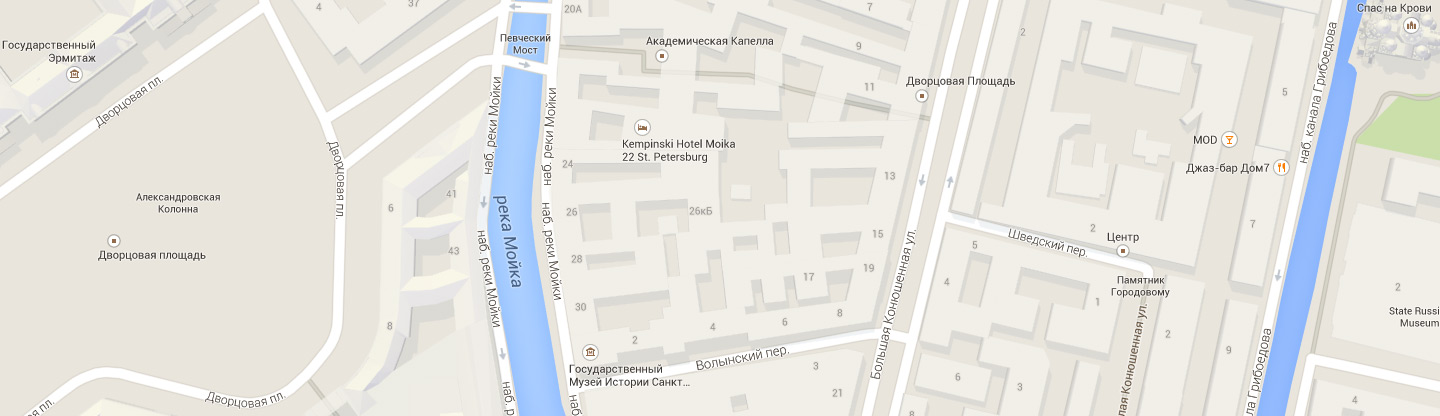
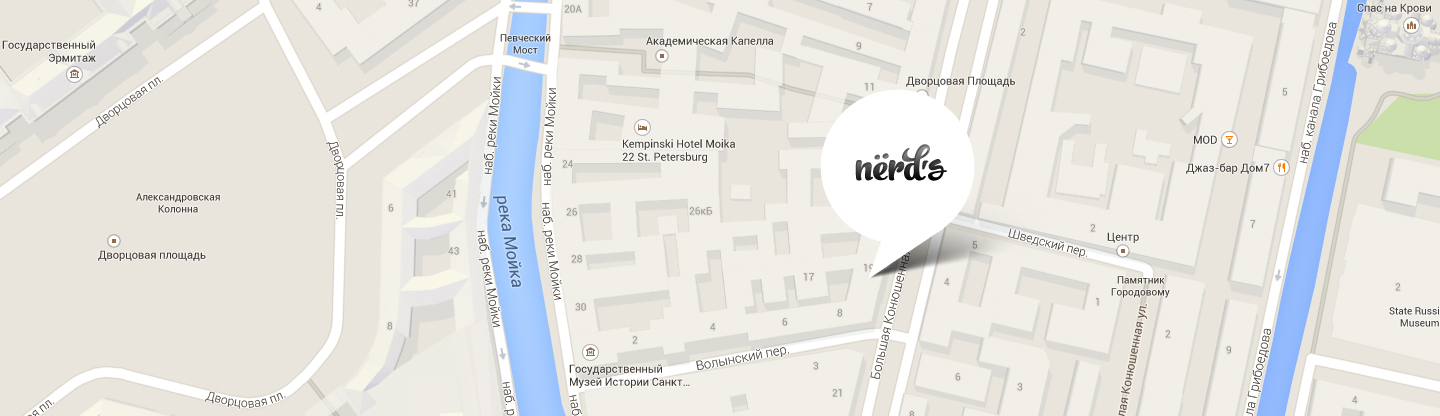
дополнения

Changed region(s): [[0.5625, 0.2188, 0.6875, 0.6562]]

diff --git a/css/style.css b/css/style.css
@@ -216,18 +216,21 @@
     background-image: url("../img/slide1.png");
     background-repeat: no-repeat;
     background-position: 93% 18px;
+    animation: arrival 0.4s;
   }
 
   .slider-item:nth-child(2) {
     background-image: url("../img/slide2.png");
     background-repeat: no-repeat;
     background-position: 100% 0;
+    animation: arrival 0.4s;
   }
 
   .slider-item:nth-child(3) {
     background-image: url("../img/slide3.png");
     background-repeat: no-repeat;
     background-position: 100% 20px;
+    animation: arrival 0.4s;
   }
 
   #product-1:checked ~ .slider-list .slider-item:nth-child(1) {
@@ -579,37 +582,49 @@
 
   footer {
     margin-bottom: 70px;
+    position: relative;
+  }
+
+  .footer-map {
+    height: 416px;
+    background-image: url("../img/map.jpg");
+    background-color: #ffffff;
+    background-position: center;
+    background-repeat: no-repeat;
+  }
+
+  .footer-map-widget {
+    z-index: 10;
+    border: 1px;
+    width: 100%;
+    min-height: 416px;
+  }
+
+  .footer-contacts-container {
+    position: relative;
+    max-width: 1440px;
+    height: 0;
+    margin: 0 auto;
+    margin-bottom: 60px;
   }
 
   .footer-contacts {
-    margin: 0 auto;
-    margin-bottom: 70px;
-  }
-
-  .map {
-    position: relative;
-    width: 100%;
-    max-width: 1440px;
-    margin: 0 auto;
-  }
-
-  .contacts {
     position: absolute;
-    top: 55px;
+    bottom: 53px;
     left: 140px;
-    z-index: 2;
+    z-index: 12;
     width: 220px;
     height: 200px;
     padding: 55px 50px;
     background-color: #ffffff;
   } 
   
-  .contacts h2,
-  .contacts p {
+  .footer-contacts h2,
+  .footer-contacts p {
     margin: 0;
   }
 
-  .contacts h3 {
+  .footer-contacts h3 {
     margin-top: -5px;
     margin-bottom: 22px;
     font-family: "Roboto";
@@ -620,7 +635,7 @@
     color: #000000;
   }
 
-  .contacts p {
+  .footer-contacts p {
     margin-bottom: 18px;
     font-family: "Roboto";
     font-size: 16px;
@@ -629,7 +644,7 @@
     color: #666666;
   }
 
-  .contacts a {
+  .footer-contacts a {
     display: inline-block;
     vertical-align: top;
     width: 100%;
@@ -646,11 +661,11 @@
     border-radius: 2px;
   }
 
-  .contacts a:hover {
+  .footer-contacts a:hover {
     background-color: #e74246;
   }
 
-  .contacts a:active {
+  .footer-contacts a:active {
     padding-top: 13px;
     color: #e37376;
     background-color: #d7373b;
@@ -659,15 +674,19 @@
     box-sizing: border-box;
   }
 
+  /*
   .market {
     position: absolute;
     top: 89px;
-    left: 820px;
+    left: 50%;
+    z-index: 5;
     display: block;
     width: 231px;
     height: 190px;
-    margin-right: -331px;
-  }
+    margin-right: 231px;
+    background-image: url("../img/map-marker.png");
+  } 
+  */
 
   /** Контакты **/
 
@@ -721,7 +740,7 @@
     width: auto;
     font-family: "Roboto";
     font-size: 16px;
-    line-height: 18px;
+    line-height: 22px;
     font-weight: 400;
     color: #444444;
     text-align: start;
@@ -734,6 +753,11 @@
     font-weight: 700;
     color: #000000;
   }
+
+  .discount-to-friends {
+    margin-top: -6px;
+  }
+
   /** Стили страницы inner.html **/
   /** Шапка немного отличается **/
   
@@ -1254,24 +1278,6 @@
     opacity: 1;
   }
 
-  .macket-description svg {
-    z-index: 1;
-    display: block;
-    width: 360px;
-    margin: 0;
-    padding: 0;
-    border: none;
-  }
-
-  .description-sedona:hover path,
-  .description-pink:hover path,
-  .description-borodinski:hover path,
-  .description-mishka:hover path,
-  .description-aplus:hover path,
-  .description-kvast:hover path {
-    fill: #4D4D4D;
-  }
-
   .link,
   .link img {
     margin: 0;
@@ -1614,16 +1620,16 @@
 
   @-webkit-keyframes bounce {
     0% {
-      transform: translateX(2000px);
+      transform: translateY(2000px);
     }
     70% {
-      transform: translateX(-200px);
+      transform: translateY(-200px);
     }
     90% {
-      transform: translateX(50px);
+      transform: translateY(50px);
     }
     100% {
-      transform: translateX(0);
+      transform: translateY(0);
     }
   }
 
@@ -1663,6 +1669,15 @@
     }
     20%, 40%, 60%, 80% {
       transform: translateX(20px);
+    }
+  }
+
+  @keyframes arrival {
+    0% {
+      transform: translateX(2000px);
+    }
+    100% {
+      transform: translateX(0);
     }
   }
   </body>

diff --git a/inner.html b/inner.html
@@ -31,7 +31,7 @@
     </header>
 
     <main class="main-container container">
-      <form method="get" action="https://echo.htmlacademy.ru">
+      <form action="https://echo.htmlacademy.ru" method="post">
         <fieldset class="filter-item">
           <legend>Стоимость:</legend>
           <div class="range-filter">
@@ -110,7 +110,7 @@
             </div>
           </li>
           <li class="description-borodinski box">
-            <a class="link" href="#"><img src="img/borodinski.jpg" width="360" height="576" alt="borodinski-landing-page"></a>
+            <a class="link" href="#"><img src="img/borodinski.jpg" width="360" height="576" alt="barbershop-borodinski-landing-page"></a>
             <div class="sticker">
               <h3><a class="product-link" href="#">Barbershop</a></h3>
               <p>Сайт салона красоты. Для мужчин, да.</p>
@@ -126,7 +126,7 @@
             </div>
           </li>
           <li class="description-aplus box">
-            <a class="link" href="#"><img src="img/aplus.jpg" width="360" height="576" alt="aplus-landing-page"></a>
+            <a class="link" href="#"><img src="img/aplus.jpg" width="360" height="576" alt="a-plus-landing-page"></a>
             <div class="sticker">
               <h3><a class="product-link" href="#">A Plus</a></h3>
               <p>Лендинг курсов повышения квалификации</p>
@@ -143,27 +143,26 @@
           </li>
         </ul>
         <ul class="page-numbers">
-          <li class="page-number page-active"><a href="#">1</a></li>
-          <li class="page-number"><a href="#">2</a></li>
-          <li class="page-number"><a href="#">3</a></li>
-          <li class="page-number"><a href="#">Следующая</a></li>
+          <li class="page-number page-active" aria-label="Первая страница подборки"><a href="#">1</a></li>
+          <li class="page-number" aria-label="Вторая страница подборки"><a href="#">2</a></li>
+          <li class="page-number" aria-label="Третья страница подборки"><a href="#">3</a></li>
+          <li class="page-number" aria-label="Следующая страница подборки"><a href="#">Следующая</a></li>
         </ul>
       </section>
     </main>
 
     <footer>
-      <section class="map footer-contacts">
+      <section class="footer-map">
         <h2 class="visually-hidden">Наш адрес</h2>
-        <img src="img/map.jpg" width="auto" height="416" alt="map">
-        <div class="market">
-          <img src="img/map-marker.png" width="231" height="190" alt="map-marker">
-        </div>
-        <article class="contacts">
+        <iframe class="footer-map-widget" src="https://yandex.ru/map-widget/v1/-/CBuyA-HzxD" aria-label="Карта"></iframe>  
+      </section>
+      <section class="footer-contacts-container">
+        <div class="footer-contacts">
             <h3>NËRDS DESIGN STUDIO</h3>
-            <p>191186, Санкт-Петербург, ул. Б. Конюшенная, д. 19/8</p>
+            <p>191186, Санкт-Петербург,<br>ул. Б. Конюшенная, д. 19/8</p>
             <p class="phone">тел. +7 (812) 275-75-75</p>
             <a class="write-us login" href="#login">Напишите нам</a>
-        </article>   
+        </div> 
       </section>
       <section class="footer-social container">
         <h2 class="visually-hidden">Мы в социальный сетях</h2>
@@ -180,7 +179,7 @@
         </article>
         <article class="friendship-and-profit">
           <p><b>Давайте дружить, это выгодно!</b></p>
-          <p>Скидка 10% для друзей из социальных сетей.</p>
+          <p class="discount-to-friends">Скидка 10% для друзей из социальных сетей.</p>
         </article>
       </section>
     </footer>

diff --git a/index.html b/index.html
@@ -11,7 +11,7 @@
     <header class="main-header">
       <h1 class="visually-hidden">Веб студия Нёрдс</h1>
       <nav class="main-navigation container">
-        <a class="index-logo" href="#">
+        <a class="index-logo">
           <img src="img/nerds-logo.svg" width="160" height="65" alt="logo-nerds">
         </a>
         <ul class="site-navigation">
@@ -62,20 +62,20 @@
       <section class="catalog">
         <h2 class="visually-hidden">Каталог</h2>
         <article class="website">
-          <img src="img/website-illustration.jpg" width="300" height="146" alt="website">
-          <h3>ВЕБ-САЙТЫ</h3>
+          <img src="img/website-illustration.jpg" width="300" height="146" alt="Веб-сайты">
+          <h3>Веб-сайты</h3>
           <p>Мир никогда не будет прежним после того как увидит ваш сайт!</p>
           <a href="#">Заказать</a>
         </article>
         <article class="attachment">
-          <img src="img/attachment-illustration.jpg" width="300" height="146" alt="attachment">
-          <h3>ПРИЛОЖЕНИЯ</h3>
+          <img src="img/attachment-illustration.jpg" width="300" height="146" alt="Приложения">
+          <h3>Приложения</h3>
           <p>Покорите топ-10 приложений в AppStore и Google Play</p>
           <a href="#">Заказать</a>
         </article>
         <article class="presentation">
-          <img src="img/presentation-illustration.jpg" width="300" height="146" alt="presentation">
-          <h3>ПРЕЗЕНТАЦИИ</h3>
+          <img src="img/presentation-illustration.jpg" width="300" height="146" alt="Презентации">
+          <h3>Презентации</h3>
           <p>Вы даже не подозреваете? насколько вы изумительны!</p>
           <a href="#">Заказать</a>
         </article>
@@ -129,18 +129,17 @@
     </main>
 
     <footer>
-	    <section class="map footer-contacts">
+      <section class="footer-map">
         <h2 class="visually-hidden">Наш адрес</h2>
-        <img src="img/map.jpg" width="auto" height="416" alt="map">
-        <div class="market">
-	        <img src="img/map-marker.png" width="231" height="190" alt="map-marker">
-	      </div>
-        <article class="contacts">
+        <iframe class="footer-map-widget" src="https://yandex.ru/map-widget/v1/-/CBuyA-HzxD" aria-label="Карта"></iframe>  
+      </section>
+      <section class="footer-contacts-container">
+        <div class="footer-contacts">
             <h3>NËRDS DESIGN STUDIO</h3>
-            <p>191186, Санкт-Петербург, ул. Б. Конюшенная, д. 19/8</p>
+            <p>191186, Санкт-Петербург,<br>ул. Б. Конюшенная, д. 19/8</p>
             <p class="phone">тел. +7 (812) 275-75-75</p>
             <a class="write-us login" href="#login">Напишите нам</a>
-        </article>   
+        </div> 
       </section>
       <section class="footer-social container">
         <h2 class="visually-hidden">Мы в социальный сетях</h2>
@@ -157,7 +156,7 @@
         </article>
         <article class="friendship-and-profit">
           <p><b>Давайте дружить, это выгодно!</b></p>
-          <p>Скидка 10% для друзей из социальных сетей.</p>
+          <p class="discount-to-friends">Скидка 10% для друзей из социальных сетей.</p>
         </article>
       </section>
     </footer>
